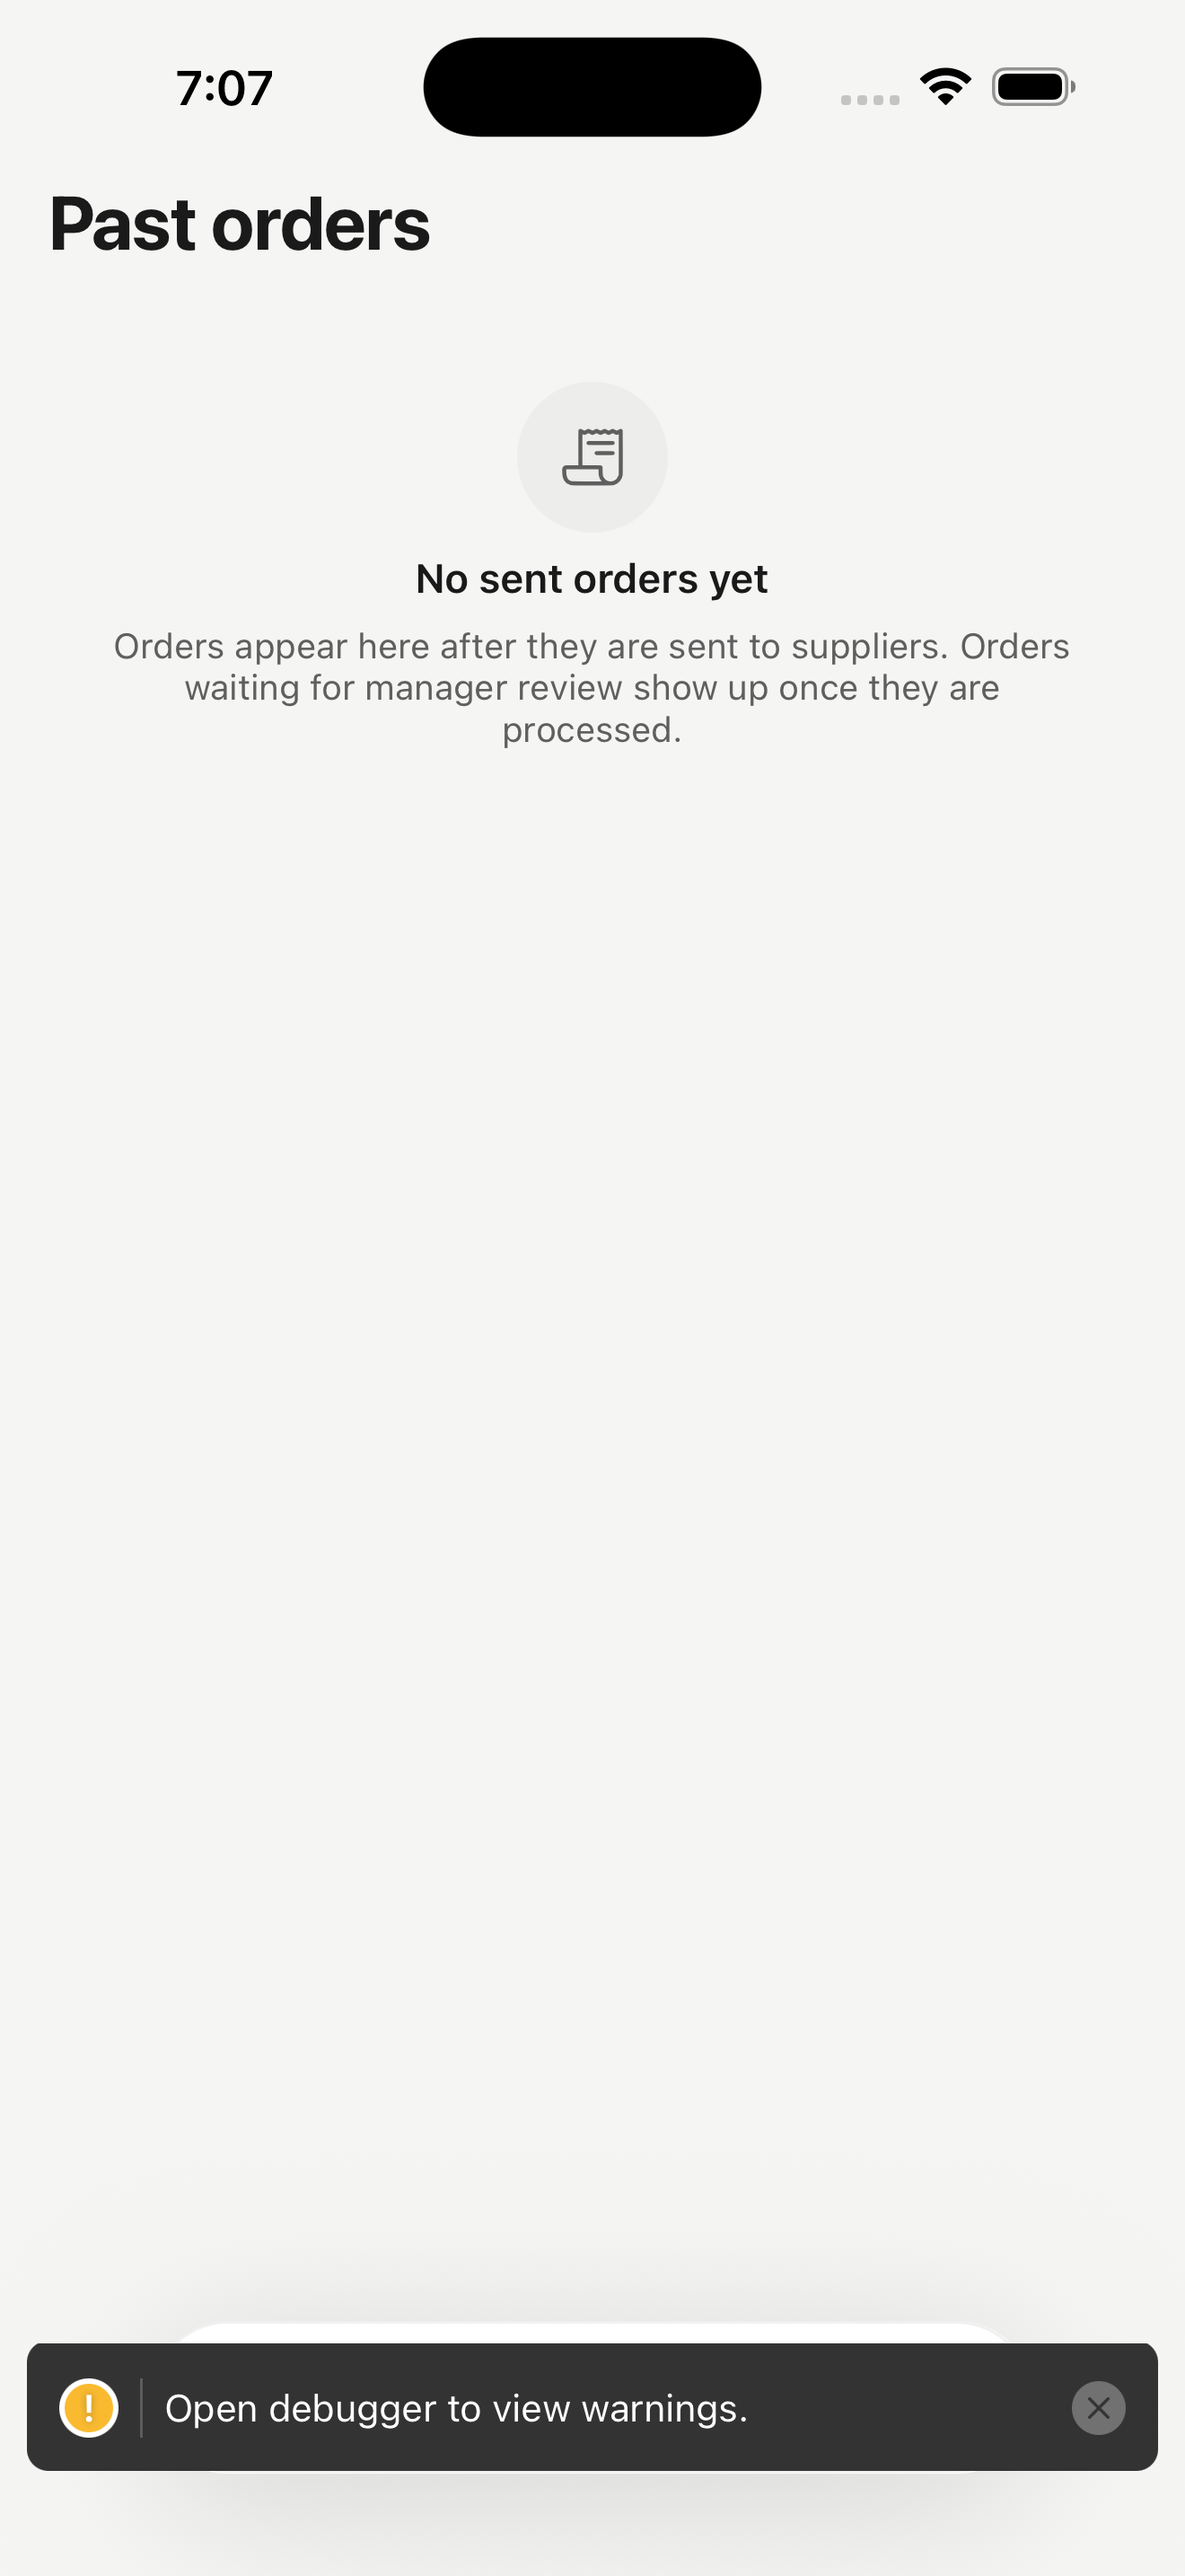
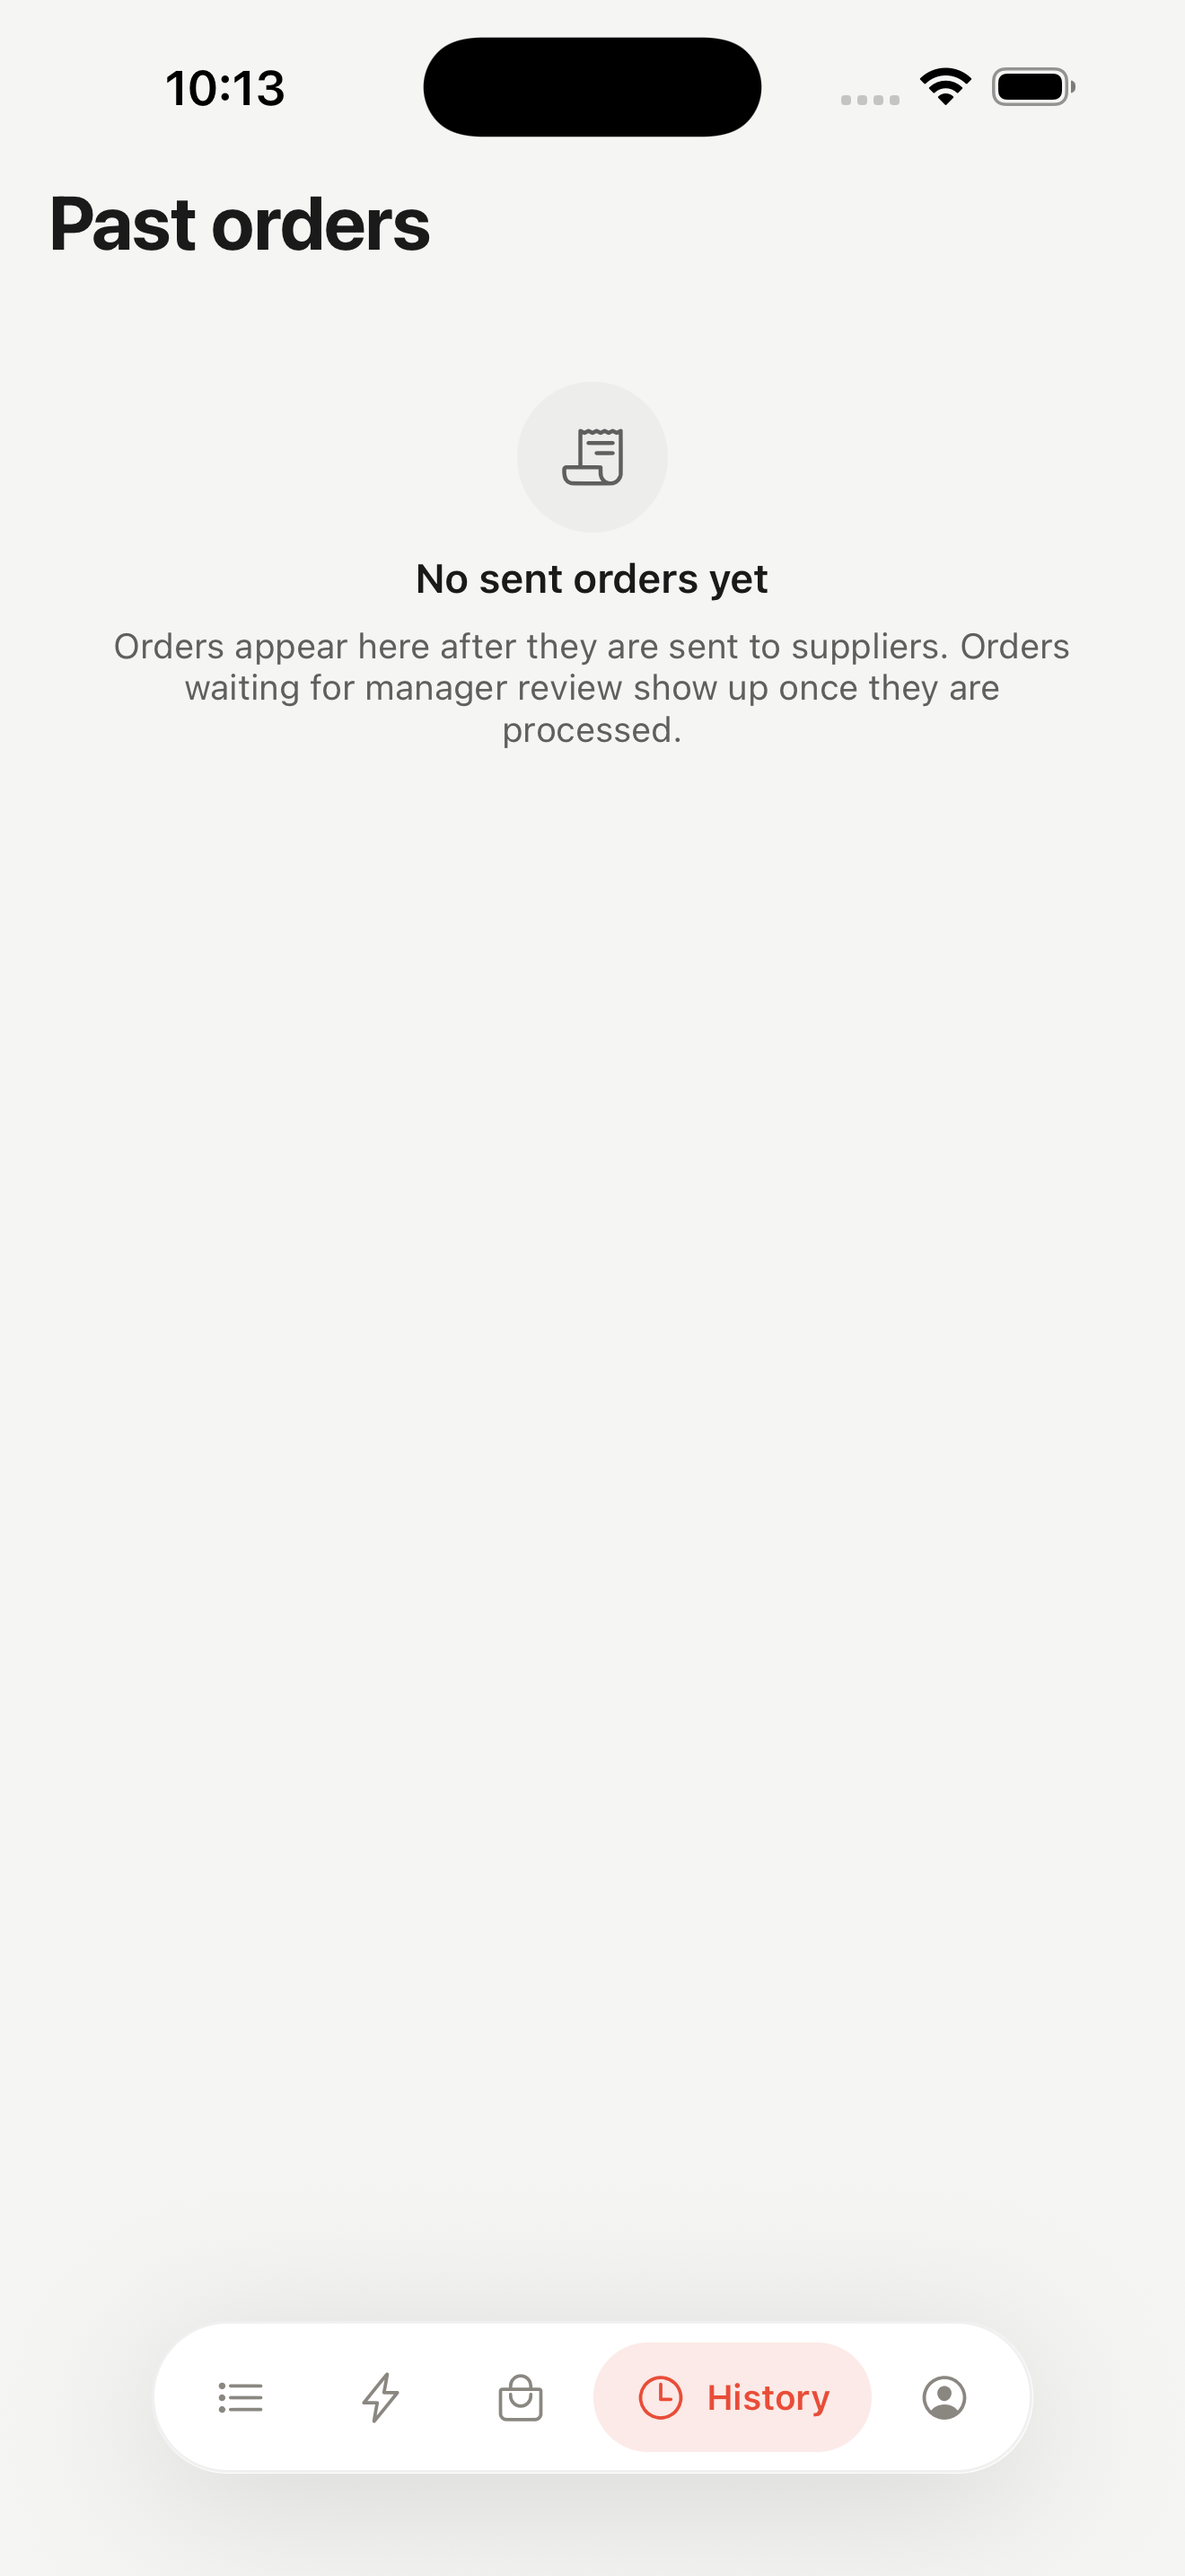
Recapture the issue-34 screens the review fixes changed
New captures for the two note editors, the cart, the quantity sheet, the
submission overlay, the stock swipe reveals and the five sheets that moved onto
the Sheet primitive, plus manager Home because the sweep touched the shared Home
files. The README says which screens could not be captured on the local stack
and what covers them instead.

Changed region(s): [[0.0, 0.8999, 0.9939, 0.962], [0.1553, 0.031, 0.2485, 0.0621]]

diff --git a/docs/ui-sweeps/issue-34/README.md b/docs/ui-sweeps/issue-34/README.md
@@ -23,3 +23,44 @@ Before and after for every employee screen this sweep touched.
 | Set stock sheet | `/(tabs)/stock-check-list` | `docs/release-readiness/e2e/issue-69/22-rerun-set-stock-6-case.png` | `after/11-set-stock-sheet.png` |
 | Past checks | `/(tabs)/past-checks` | `docs/release-readiness/e2e/root-past-checks.png` | `after/12-past-checks.png` |
 | Voice | `/(tabs)/voice` | `docs/release-readiness/e2e/issue-39/08-tabs-voice-redirect.png` | `after/13-voice.png` |
+
+## Update 2026-09-10: Sol review fixes
+
+Recaptured on the same second simulator (UDID
+`493660C2-D09B-4B39-AC50-705FFD205948`, Metro on 8092), signed in as
+`E2E Employee` against the shared local stack on port 54601. Only the screens
+whose look changed were retaken; every other row above still points at the
+capture from the first pass.
+
+| Screen | Route | Before | After | What changed |
+| --- | --- | --- | --- | --- |
+| Quantity card sheet | `/(tabs)/simple-order` | `after/02-quantity-sheet.png` (first pass) | `after/02-quantity-sheet.png` | Unit control is now `Segment`; sheet clears the home indicator |
+| Cart | `/(tabs)/cart` | `docs/release-readiness/e2e/root-manager-cart.png` | `after/04-cart.png` | `Card` instead of `GlassSurface`, pack/base control is now `Segment` |
+| Cart, empty | `/(tabs)/cart` | `docs/release-readiness/e2e/root-manager-cart.png` | `after/20-cart-empty.png` | Reorder actions sit on `Card` |
+| Past orders | `/(tabs)/history` | `docs/release-readiness/e2e/13-manager-history-empty.png` | `after/05-history.png` | Sheet safe-area fix (see the note below) |
+| Stock check home | `/(tabs)/stock-check` | `docs/release-readiness/e2e/root-stock-home.png` | `after/09-stock-home.png` | Unchanged by the fixes, retaken for the set |
+| Stock check list | `/(tabs)/stock-check-list` | `docs/release-readiness/e2e/root-stock-list.png` | `after/10-stock-list.png` | Unchanged by the fixes, retaken for the set |
+| Stock swipe, mark full | `/(tabs)/stock-check-list` | none | `after/24-stock-swipe-full.png` | Reveal uses the action accent, not the `good` status colour |
+| Stock swipe, mark all out | `/(tabs)/stock-check-list` | none | `after/25-stock-swipe-empty.png` | Reveal uses neutral ink, not the `alert` status colour |
+| Order note sheet | `/(tabs)/simple-order` | none | `after/16-order-note-sheet.png` | Save is back inside the keyboard-avoiding region |
+| Cart item note sheet | `/(tabs)/cart` | none | `after/21-cart-note-sheet.png` | Save is back inside the keyboard-avoiding region |
+| Quick actions sheet | `/(tabs)/simple-order` | none | `after/15-quick-actions-sheet.png` | Migrated from `BottomSheetShell` to `Sheet` |
+| Checklist display sheet | `/(tabs)/simple-order` | none | `after/17-checklist-display-sheet.png` | Migrated to `Sheet` |
+| Recent orders sheet | `/(tabs)/simple-order` | none | `after/18-recent-orders-sheet.png` | Migrated to `Sheet` |
+| Review order sheet | `/(tabs)/simple-order` | none | `after/19-confirm-order-sheet.png` | Migrated to `Sheet` |
+| Order-day reminder sheet | `/settings` | none | `after/23-order-day-reminder-sheet.png` | Migrated to `Sheet` |
+| Order submitted overlay | `/(tabs)/cart` | none | `after/22-submission-overlay.png` | `Card` instead of `GlassSurface`; timer bar is the accent, not `good` |
+| Manager home | `/(manager)/home` | none | `after/14-manager-home.png` | Captured because the sweep touched the shared Home files |
+
+Not captured, and why:
+
+- History order detail sheet. The local employee has no sent orders, so the
+  Past orders screen is the empty state and the detail sheet cannot open. The
+  safe-area fix on that sheet is covered by
+  `src/__tests__/employeeSweepContract.test.ts`.
+- Station picker sheet. The fix there is `accessibilityState.selected` on the
+  chosen row, which has no visual effect, and the local fixture location does
+  not surface the picker. Covered by the same test file.
+- Voice add sheet. `EXPO_PUBLIC_ENABLE_QUICK_ORDER_VOICE` is false on the local
+  stack, so the sheet cannot be opened there. Its migration to `Sheet` is a
+  straight shell swap.
